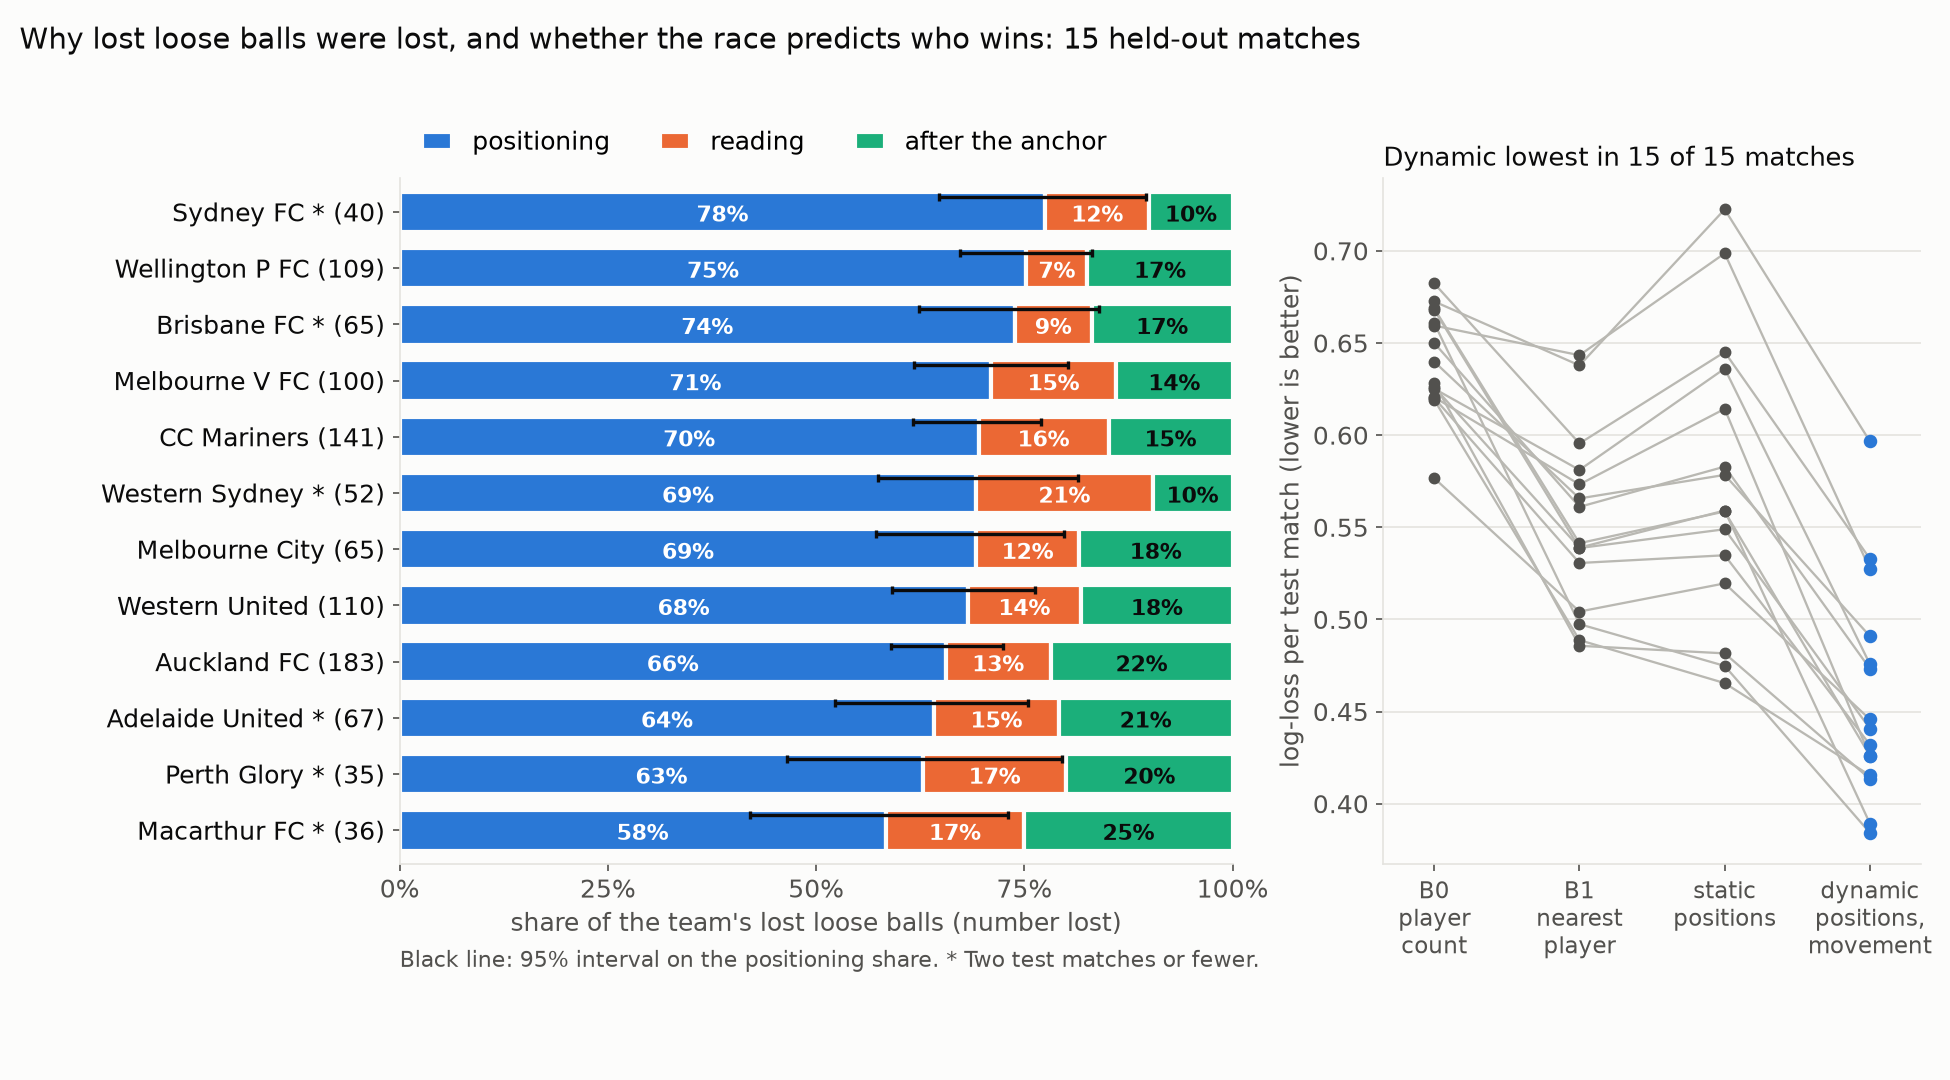
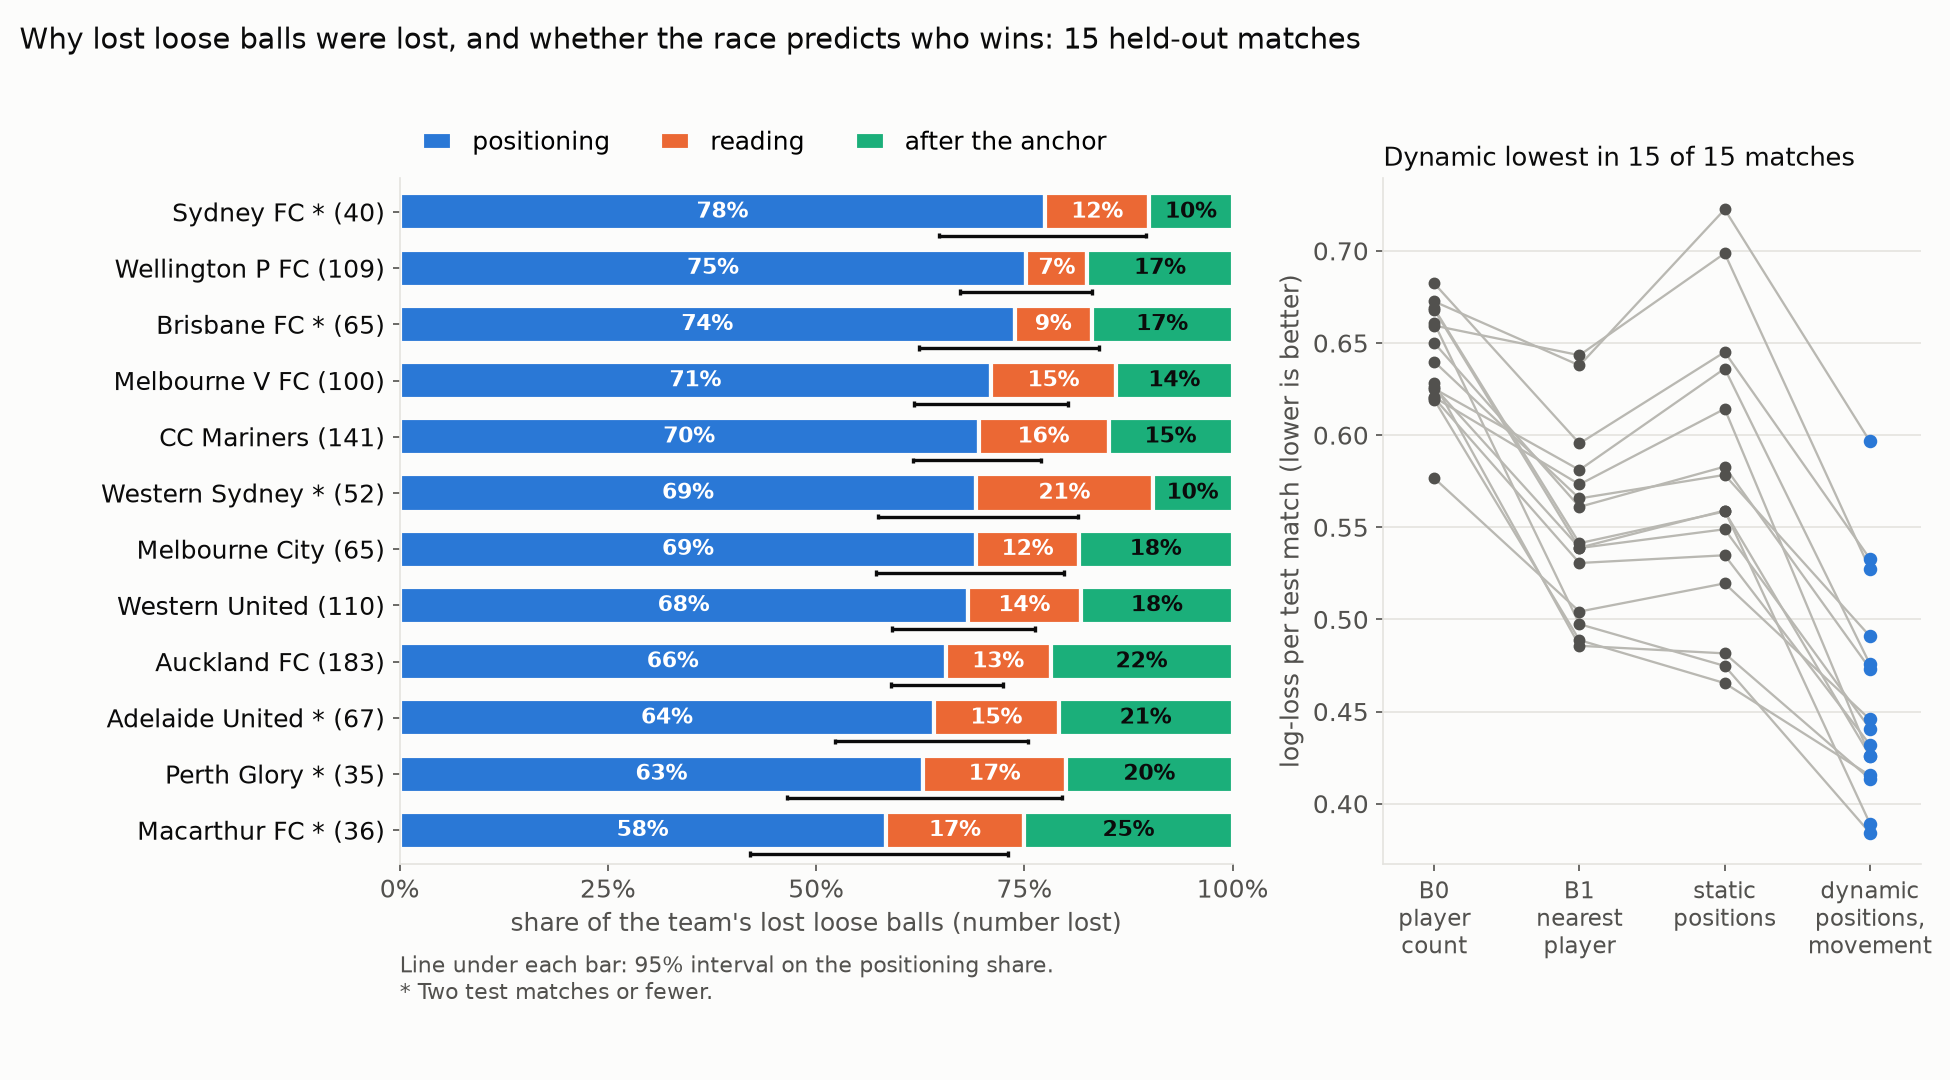
Step 3b revision: Figure 1 redrawn by seed under the logged legibility constraint, Figure 2 A interval below the bars; reproduce diff identical

diff --git a/src/looseball/figures.py b/src/looseball/figures.py
@@ -33,6 +33,8 @@ BLUE, ORANGE, AQUA = "#2a78d6", "#eb6834", "#1baf7a"
 VERDICT_COLOURS = {"positioning": BLUE, "reading": ORANGE, "after the anchor": AQUA}
 HALF = 22.0  # metres shown around the pickup point
 MAX_CAPTION_WORDS = 40
+MIN_LEAD = 1.5  # seconds, Figure 1 legibility constraint (AUDIT.md, 3b revision)
+MIN_PATH = 10.0  # metres
 STYLE = {
     "font.size": 12,
     "axes.edgecolor": GRID,
@@ -53,32 +55,49 @@ def _pitch(ax, length: float, width: float) -> None:
         ax.add_patch(Rectangle((s * hl - (5.5 if s > 0 else 0), -9.16), 5.5, 18.32, fill=False, **kw))
 
 
-def draw_episode(episodes: pd.DataFrame) -> pd.Series:
-    """The seeded draw for Figure 1 from the reproduce output's episodes table."""
+def ball_path_length(tracking: pd.DataFrame, release: int, pickup: int) -> float:
+    """Length of the tracked ball path from release to pickup, steps with a missing position skipped."""
+    xy = tracking.loc[release:pickup, ["ball_x", "ball_y"]].to_numpy(dtype=float)
+    return float(np.nansum(np.hypot(np.diff(xy[:, 0]), np.diff(xy[:, 1]))))
+
+
+def draw_episode(episodes: pd.DataFrame, path_length: pd.Series | None = None) -> pd.Series:
+    """The seeded draw for Figure 1 from the reproduce output's episodes table, under the
+    legibility constraint logged before the draw (AUDIT.md, 3b revision): a reading or
+    positioning verdict, a lead of at least MIN_LEAD and a ball path of at least MIN_PATH.
+    path_length: ball path length by seq_i for the worked match."""
     pool = episodes[
         (episodes["match_id"] == WORKED_MATCH) & episodes["verdict"].isin(["reading", "positioning"])
     ]
+    pool = pool[pool["lead_s"] >= MIN_LEAD]
+    if path_length is not None:
+        pool = pool[pool["seq_i"].map(path_length) >= MIN_PATH]
     pool = pool.sort_values("seq_i").reset_index(drop=True)
-    return pool.loc[int(np.random.default_rng(SEED).choice(len(pool)))]
+    return pool.loc[int(np.random.default_rng(SEED).choice(len(pool)))], len(pool)
 
 
 def caption(loser: str, p_static_loser: float, p_dynamic_loser: float, verdict: str) -> str:
-    ps, pd_ = 100 * p_static_loser, 100 * p_dynamic_loser
-    if verdict == "positioning":
-        text = (f"When the drop zone came into view, {loser} had a {ps:.1f}% chance from where their players stood "
-                f"and {pd_:.1f}% counting how they were moving. Lost on positioning: they were too far away.")  # fmt: skip
-    else:
-        text = (f"When the drop zone came into view, {loser} had a {ps:.1f}% chance from where their players stood, "
-                f"but how they were moving cut it to {pd_:.1f}%. Lost on reading: moving the wrong way.")  # fmt: skip
+    text = (
+        f"Shading: which team reaches each point first. When the drop zone came into view, {loser} had "
+        f"{100 * p_static_loser:.1f}% from position, {100 * p_dynamic_loser:.1f}% with movement: lost on {verdict}. "
+        f"Randomly drawn among lost balls with lead {MIN_LEAD:g} s+ and path {MIN_PATH:g} m+."
+    )
     if len(text.split()) > MAX_CAPTION_WORDS:
         raise ValueError(f"caption has {len(text.split())} words")
     return text
 
 
 def figure1(data, episodes: pd.DataFrame, out_dir: Path) -> dict:
-    e = draw_episode(episodes)
     m = load_match(data, WORKED_MATCH)
-    ep = find_episodes(m.possessions, m.tracking, m.players).set_index("seq_i").loc[int(e["seq_i"])]
+    found = find_episodes(m.possessions, m.tracking, m.players).set_index("seq_i")
+    lengths = pd.Series(
+        {
+            s: ball_path_length(m.tracking, int(r.release_frame), int(r.pickup_frame))
+            for s, r in found.iterrows()
+        }
+    )
+    e, pool_size = draw_episode(episodes, lengths)
+    ep = found.loc[int(e["seq_i"])]
     anchor, release, pickup = int(e["anchor_frame"]), int(ep["release_frame"]), int(e["pickup_frame"])
     target = np.array([ep["pickup_x"], ep["pickup_y"]], dtype=float)
     loser, winner = int(e["losing_team"]), int(e["winning_team"])
@@ -91,6 +110,7 @@ def figure1(data, episodes: pd.DataFrame, out_dir: Path) -> dict:
 
     vel = tracking_velocities(m.tracking)
     at = vel[vel["frame"] == anchor].copy()
+    inside = at["x"].between(*xlim) & at["y"].between(*ylim)
     at["team_id"] = m.players.set_index("column_id")["team_id"].reindex(at["column_id"]).to_numpy()
     model = ReachModel()
     gx, gy = np.meshgrid(np.linspace(*xlim, 177), np.linspace(*ylim, 177))
@@ -125,7 +145,7 @@ def figure1(data, episodes: pd.DataFrame, out_dir: Path) -> dict:
         ax.scatter(path[0, 0], path[0, 1], s=50, facecolor=SURFACE, edgecolor=INK, linewidth=1.5, zorder=5)
         ax.scatter(*target, marker="x", s=150, color=INK, linewidth=2.4, zorder=6)
         for team, colour in ((winner, BLUE), (loser, ORANGE)):
-            rows = at[at["team_id"] == team]
+            rows = at[(at["team_id"] == team) & inside]  # players inside the panel
             det = rows["detected"].fillna(False).to_numpy(dtype=bool)
             ax.scatter(rows["x"], rows["y"], s=120, facecolor=np.where(det, colour, SURFACE), edgecolor=colour,
                        linewidth=2.2, zorder=7)  # fmt: skip
@@ -173,11 +193,12 @@ def figure1(data, episodes: pd.DataFrame, out_dir: Path) -> dict:
         )
         text = caption(m.team_names[loser], ps_loser, pd_loser, e["verdict"])
         fig.text(0.03, 0.155, textwrap.fill(text, 98), fontsize=12, color=INK, va="top")
-        name = f"figure1_seed{SEED}.png"
+        name = f"figure1_constrained_seed{SEED}.png"
         fig.savefig(out_dir / name, dpi=150, facecolor=SURFACE, bbox_inches="tight", pad_inches=0.3)
         plt.close(fig)
     (out_dir / "figure1_caption.txt").write_text(text + "\n")
     return {"file": name, "seed": SEED, "match_id": WORKED_MATCH, "seq_i": int(e["seq_i"]), "verdict": e["verdict"],
+            "pool": pool_size, "lead_s": float(e["lead_s"]), "ball_path_m": float(lengths[int(e["seq_i"])]),
             "caption": text}  # fmt: skip
 
 
@@ -187,13 +208,13 @@ def _team_panel(ax, teams: pd.DataFrame) -> None:
     left = np.zeros(len(t))
     for v in SHARES:
         ax.barh(
-            y, t[v], left=left, height=0.72, color=VERDICT_COLOURS[v], edgecolor=SURFACE, linewidth=2, label=v
+            y, t[v], left=left, height=0.66, color=VERDICT_COLOURS[v], edgecolor=SURFACE, linewidth=2, label=v
         )
         for yi, (lft, w) in enumerate(zip(left, t[v])):
             if w >= 0.07:
                 ax.text(
                     lft + w / 2,
-                    yi - 0.07,
+                    yi,
                     f"{100 * w:.0f}%",
                     ha="center",
                     va="center",
@@ -203,8 +224,8 @@ def _team_panel(ax, teams: pd.DataFrame) -> None:
                 )
         left = left + t[v].to_numpy()
     lo, hi = t["positioning lo"].to_numpy(), t["positioning hi"].to_numpy()
-    ax.hlines(y + 0.27, lo, hi, color=INK, linewidth=1.6, zorder=5)
-    ax.vlines(np.r_[lo, hi], np.r_[y, y] + 0.20, np.r_[y, y] + 0.34, color=INK, linewidth=1.6, zorder=5)
+    ax.hlines(y - 0.42, lo, hi, color=INK, linewidth=1.6, zorder=5)  # below the bar
+    ax.vlines(np.r_[lo, hi], np.r_[y, y] - 0.47, np.r_[y, y] - 0.37, color=INK, linewidth=1.6, zorder=5)
     labels = [f"{n}{' *' if f == 'flag' else ''} ({lost})" for n, f, lost in
               zip(t["team"], t["sample-size flag"].fillna(""), t["lost"])]  # fmt: skip
     ax.set_yticks(y, labels, fontsize=12, color=INK)
@@ -217,8 +238,8 @@ def _team_panel(ax, teams: pd.DataFrame) -> None:
     )
     for s in ("top", "right"):
         ax.spines[s].set_visible(False)
-    ax.text(0, -0.15, "Black line: 95% interval on the positioning share. * Two test matches or fewer.",
-            fontsize=10.5, color=MUTED, transform=ax.transAxes)  # fmt: skip
+    ax.text(0, -0.13, "Line under each bar: 95% interval on the positioning share.\n* Two test matches or fewer.",
+            fontsize=10.5, color=MUTED, transform=ax.transAxes, va="top")  # fmt: skip
 
 
 def _model_panel(ax, episodes: pd.DataFrame) -> int:

diff --git a/tests/test_figures.py b/tests/test_figures.py
@@ -7,13 +7,14 @@ from looseball.decompose import SHARES
 
 def test_caption_states_the_numbers_within_forty_words():
     for verdict in ("positioning", "reading"):
-        text = figures.caption("Wellington Phoenix Football Club", 0.6713, 0.2342, verdict)
+        text = figures.caption("Wellington P FC", 0.6713, 0.2342, verdict)
         assert len(text.split()) <= figures.MAX_CAPTION_WORDS
-        assert "67.1%" in text and "23.4%" in text and verdict in text
+        assert "67.1%" in text and "23.4%" in text and f"lost on {verdict}" in text
+        assert "reaches each point first" in text and "Randomly drawn" in text
         assert chr(0x2014) not in text  # no em dash
 
 
-def test_seeded_draw_is_fixed_and_only_reading_or_positioning():
+def test_seeded_draw_is_fixed_and_respects_the_constraint():
     eps = pd.DataFrame(
         {
             "match_id": [figures.WORKED_MATCH] * 6 + [1],
@@ -23,15 +24,25 @@ def test_seeded_draw_is_fixed_and_only_reading_or_positioning():
                 "after the anchor",
                 "positioning",
                 "reading",
-                "after the anchor",
+                "reading",
                 "positioning",
                 "reading",
             ],
+            "lead_s": [2.0, 3.0, 1.6, 1.4, 2.5, 1.8, 2.0],
         }
     )
-    a, b = figures.draw_episode(eps), figures.draw_episode(eps.sample(frac=1, random_state=3))
-    assert a["seq_i"] == b["seq_i"] and a["match_id"] == figures.WORKED_MATCH
-    assert a["verdict"] in ("reading", "positioning")
+    paths = pd.Series({5: 12.0, 1: 30.0, 9: 15.0, 3: 20.0, 7: 9.0, 2: 11.0, 4: 40.0})
+    (a, n), (b, _) = (
+        figures.draw_episode(eps, paths),
+        figures.draw_episode(eps.sample(frac=1, random_state=3), paths),
+    )
+    assert n == 3  # 5, 9 and 2: not 1 (after the anchor), 3 (lead 1.4 s), 7 (path 9 m), 4 (other match)
+    assert a["seq_i"] == b["seq_i"] and a["seq_i"] in (5, 9, 2)
+
+
+def test_ball_path_length_skips_missing_steps():
+    t = pd.DataFrame({"ball_x": [0.0, 3.0, np.nan, 3.0, 6.0], "ball_y": [0.0, 4.0, np.nan, 4.0, 8.0]})
+    assert figures.ball_path_length(t, 0, 4) == 10.0
 
 
 def test_figure2_versions_render(tmp_path):

diff --git a/AUDIT.md b/AUDIT.md
@@ -2237,3 +2237,24 @@ Reading. With its own temperature the static expectation reaches a log-loss of 0
 | bug | the .gitignore rule `data/` also matched src/looseball/data, so the packaged frozen parameters (looseball/data/frozen_parameters.json) were never committed in 3a; a fresh clone would have lacked them. The 3a wheel check passed because it built from the working tree |
 | fix | the rule is anchored to the repository root (`/data/`); the open-data link and the cache stay ignored; src/looseball/data/frozen_parameters.json and frozen_static_temperature.json are committed |
 | effect on results | none: the files' contents are unchanged (byte-identical to the audit copies, test_frozen_parameters) |
+
+### 3b revision: figures redrawn (2026-10-29)
+
+| item | value |
+|:--|:--|
+| Figure 1 draw | under the constraint logged above, seed 20261029: pool of 17 lost balls in match 1927964; drawn match 1927964, seq_i 323: T6 (unknown end), lead 1.5 s, ball path 19.0 m, verdict positioning; Wellington P FC lost to Western Sydney |
+| Figure 1 caption (40 words) | Shading: which team reaches each point first. When the drop zone came into view, Wellington P FC had 1.1% from position, 0.3% with movement: lost on positioning. Randomly drawn among lost balls with lead 1.5 s+ and path 10 m+. |
+| Figure 1 file | figures/figure1_constrained_seed20261029.png and figures/figure1_caption.txt; the previous draw kept as figures/previous/figure1_unconstrained_seed20261029.png (not regenerated) |
+| Figure 1 rendering fix | players outside the panel are no longer drawn (their arrows had reached into the panel without a marker) |
+| Figure 2 A (chosen) and B | the 95% interval on the positioning share moved below each bar, so it cannot be read as an interval on the reading share; the footnote wrapped onto two lines |
+| reproduce diff | `looseball reproduce` (5 min 47 s, 826 MB peak) checked with scripts/check_reproduce.py: the six MT1 files, report.md, static_temperature.md and all four figure files identical; a second drawing from the same tables gives identical bytes |
+
+Reproduce runs so far, same machine (Python 3.12.3, numpy 2.2.6, pandas 3.1.0):
+
+| run | wall time | peak memory |
+|:--|:--|:--|
+| 3a, tables only | 4 min 40 s | 821 MB |
+| 3b, with figures | 5 min 15 s | 825 MB |
+| 3c.0 | 5 min 52 s | 813 MB |
+| figure revision, first | 7 min 10 s | 846 MB |
+| figure revision, final | 5 min 47 s | 826 MB |
